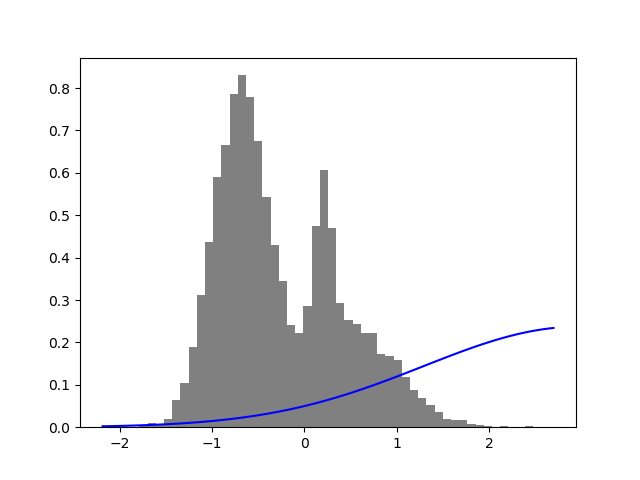
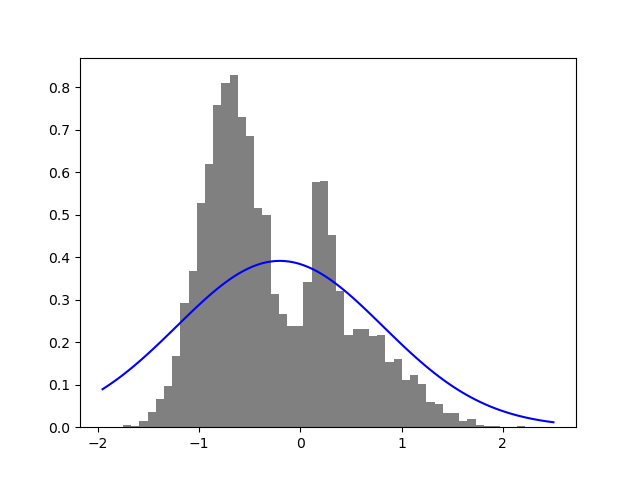
added rmsprop

diff --git a/examples/gaussian-mix/gaussian-mix.py b/examples/gaussian-mix/gaussian-mix.py
@@ -1,14 +1,15 @@
 import sys
 sys.path.append('../../main')
 
-from solvers import CMA_es, AMSGrad, SGD
-from costfunctions import KullbackLeibler, LogLikelyhood
+from solvers import CMA_es, SGD, RMSProp
+from costfunctions import KullbackLeibler, LogLikelyhood, KLdiv
 
 import numpy as np
 from theta import rtbm
 from theta.costfunctions import logarithmic
 import matplotlib.pyplot as plt
 
+#from theta.minimizer import SGD
 
 
 # Generating Data
@@ -34,16 +35,21 @@ data = gaussian_mixture(n)
 data = data.reshape(1, data.size)
 
 # RTBM model
-model = rtbm.RTBM(1, 2, random_bound=1)
+model = rtbm.RTBM(1, 2, random_bound=1, diagonal_T=True)
+
+print(model.get_parameters())
 
 # Training
-minim = CMA_es(KullbackLeibler(model,data), model, data, empirical_cost=True)
+#minim = CMA_es(logarithmic, model, data)
 #minim = AMSGrad(KullbackLeibler(model,data), model, data, empirical_cost=True)
 #minim = SGD(KullbackLeibler(model,data), model, data, empirical_cost=True)
+#minim = SGD(logarithmic, model, data)
+minim = RMSProp(logarithmic, model, data)
+#minim = SGD()
 
-solution = minim.train(popsize=20, m2=7)  # this is for CMA_es
-#solution = minim.train()                  # this is for AMSGrad
-
+#solution = minim.train(popsize=20, m2=7)  # this is for CMA_es
+solution = minim.train()                  # this is for AMSGrad
+#solution = minim.train(logarithmic, model, data)
 
 # Plotting
 
